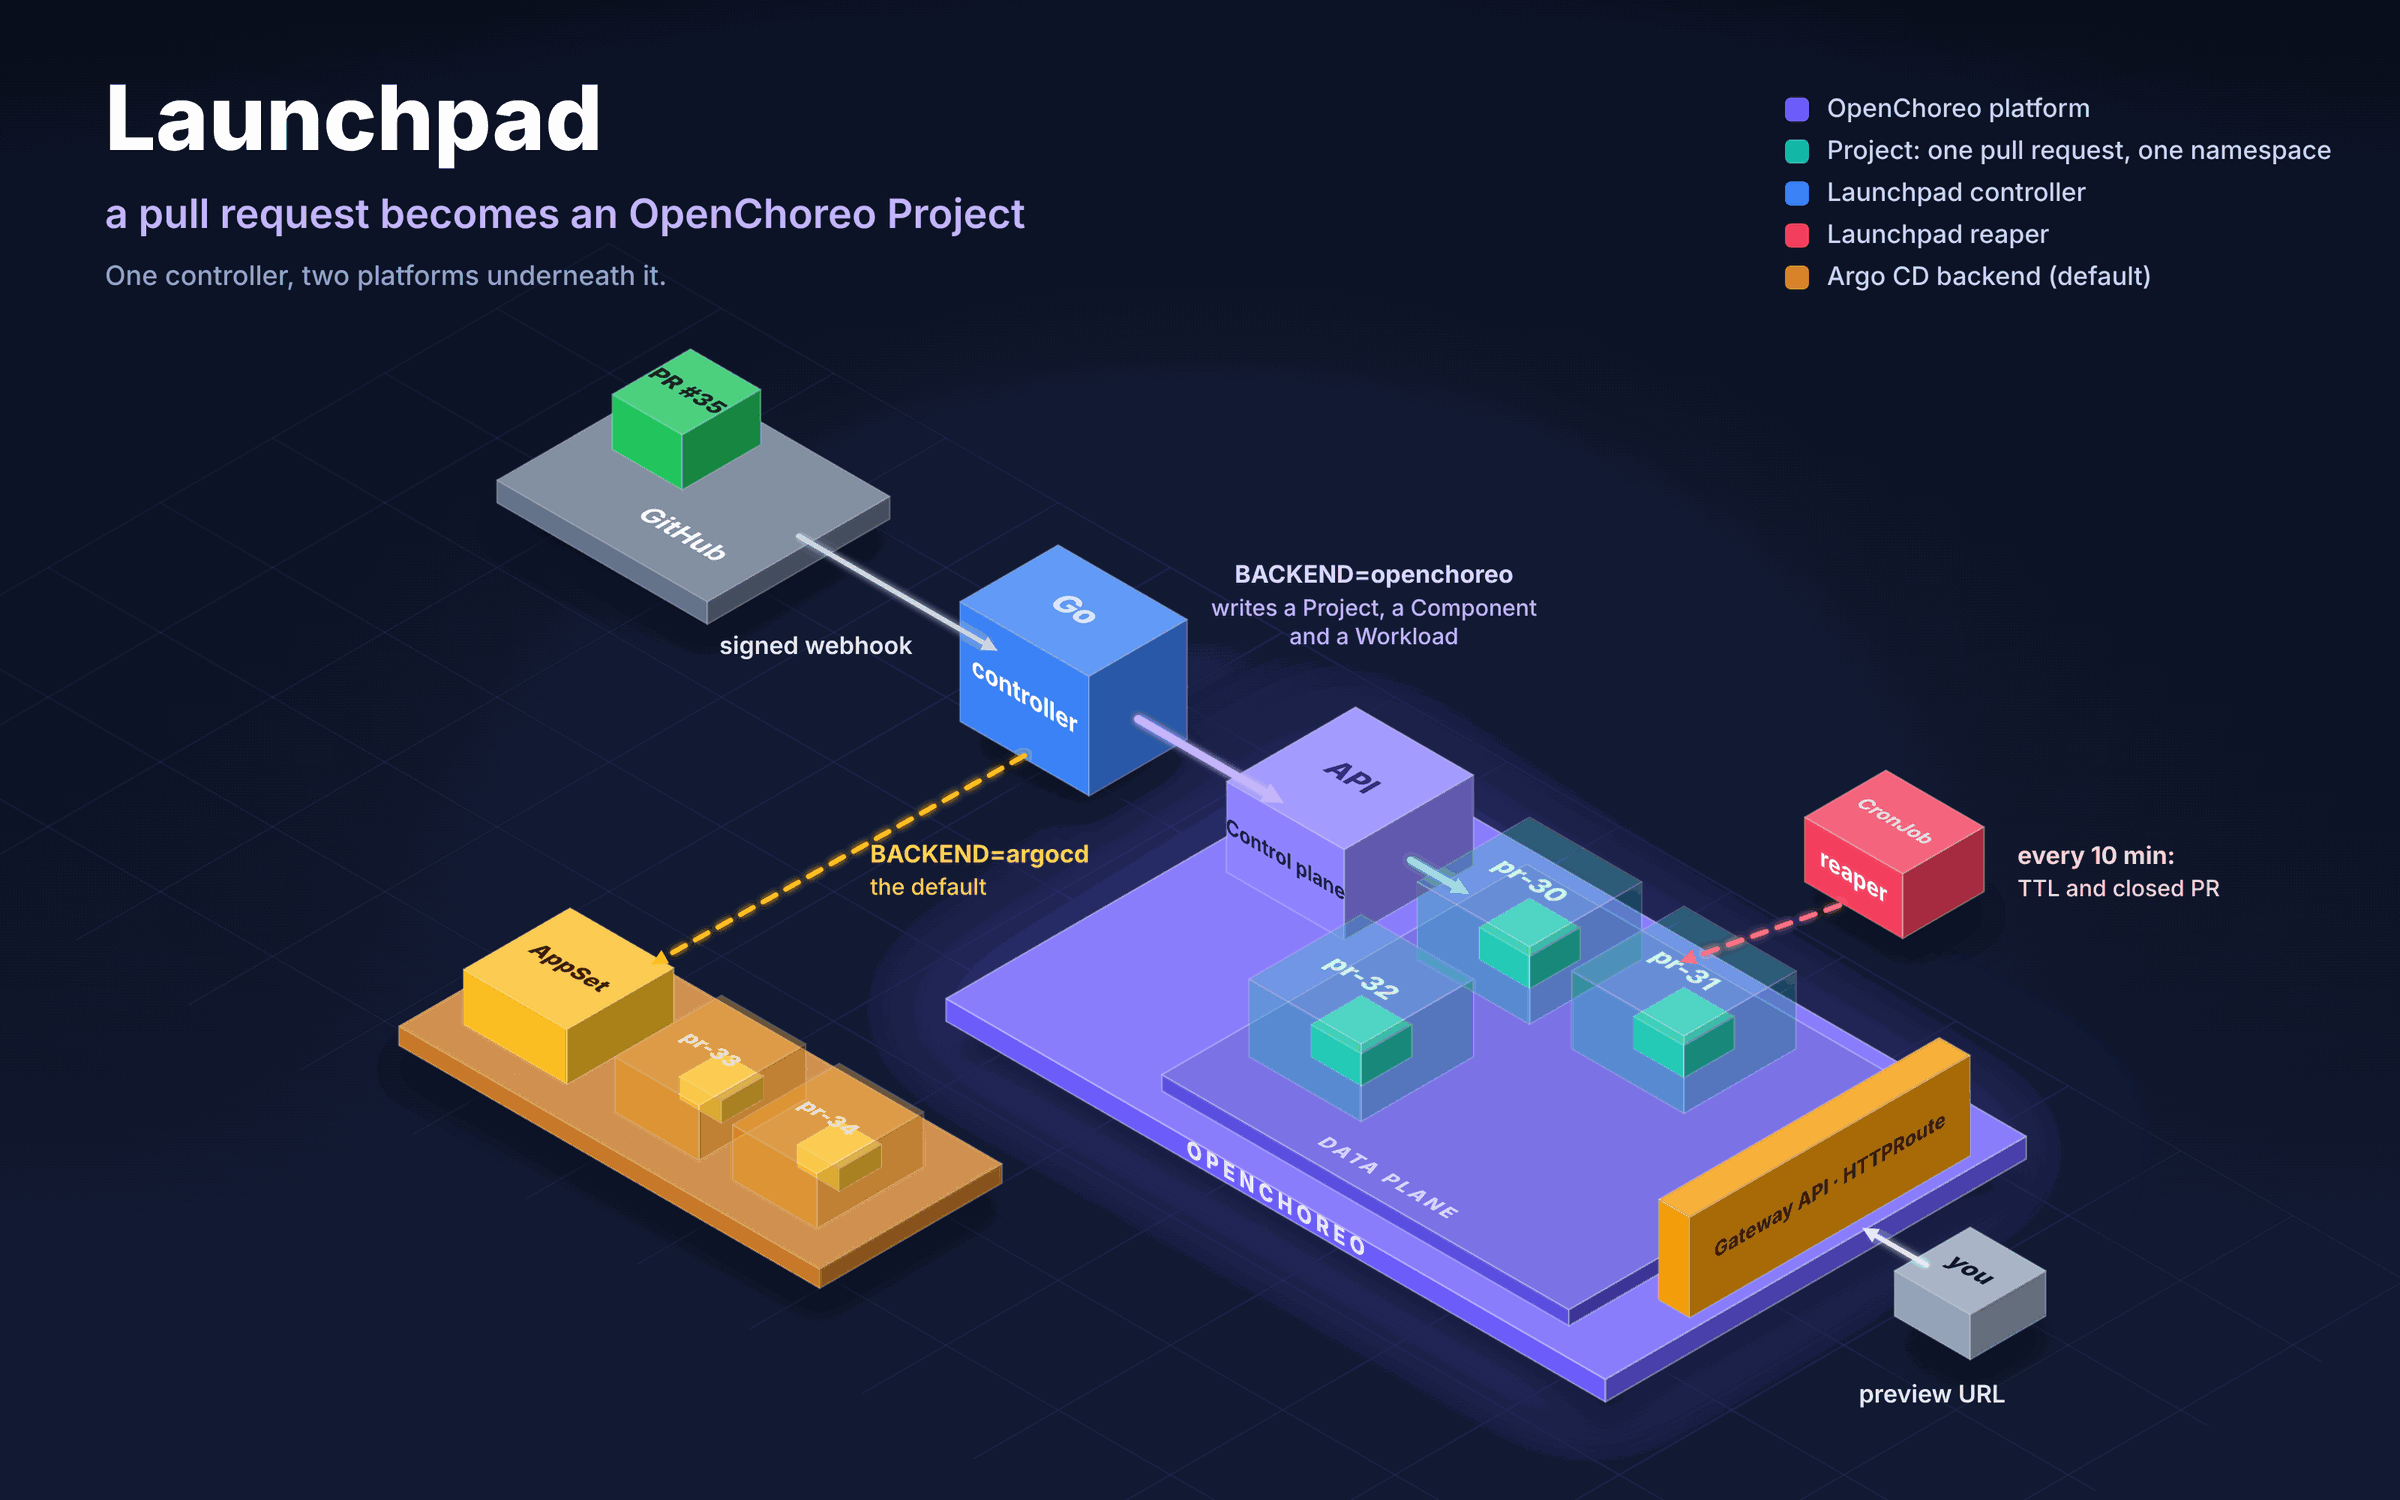
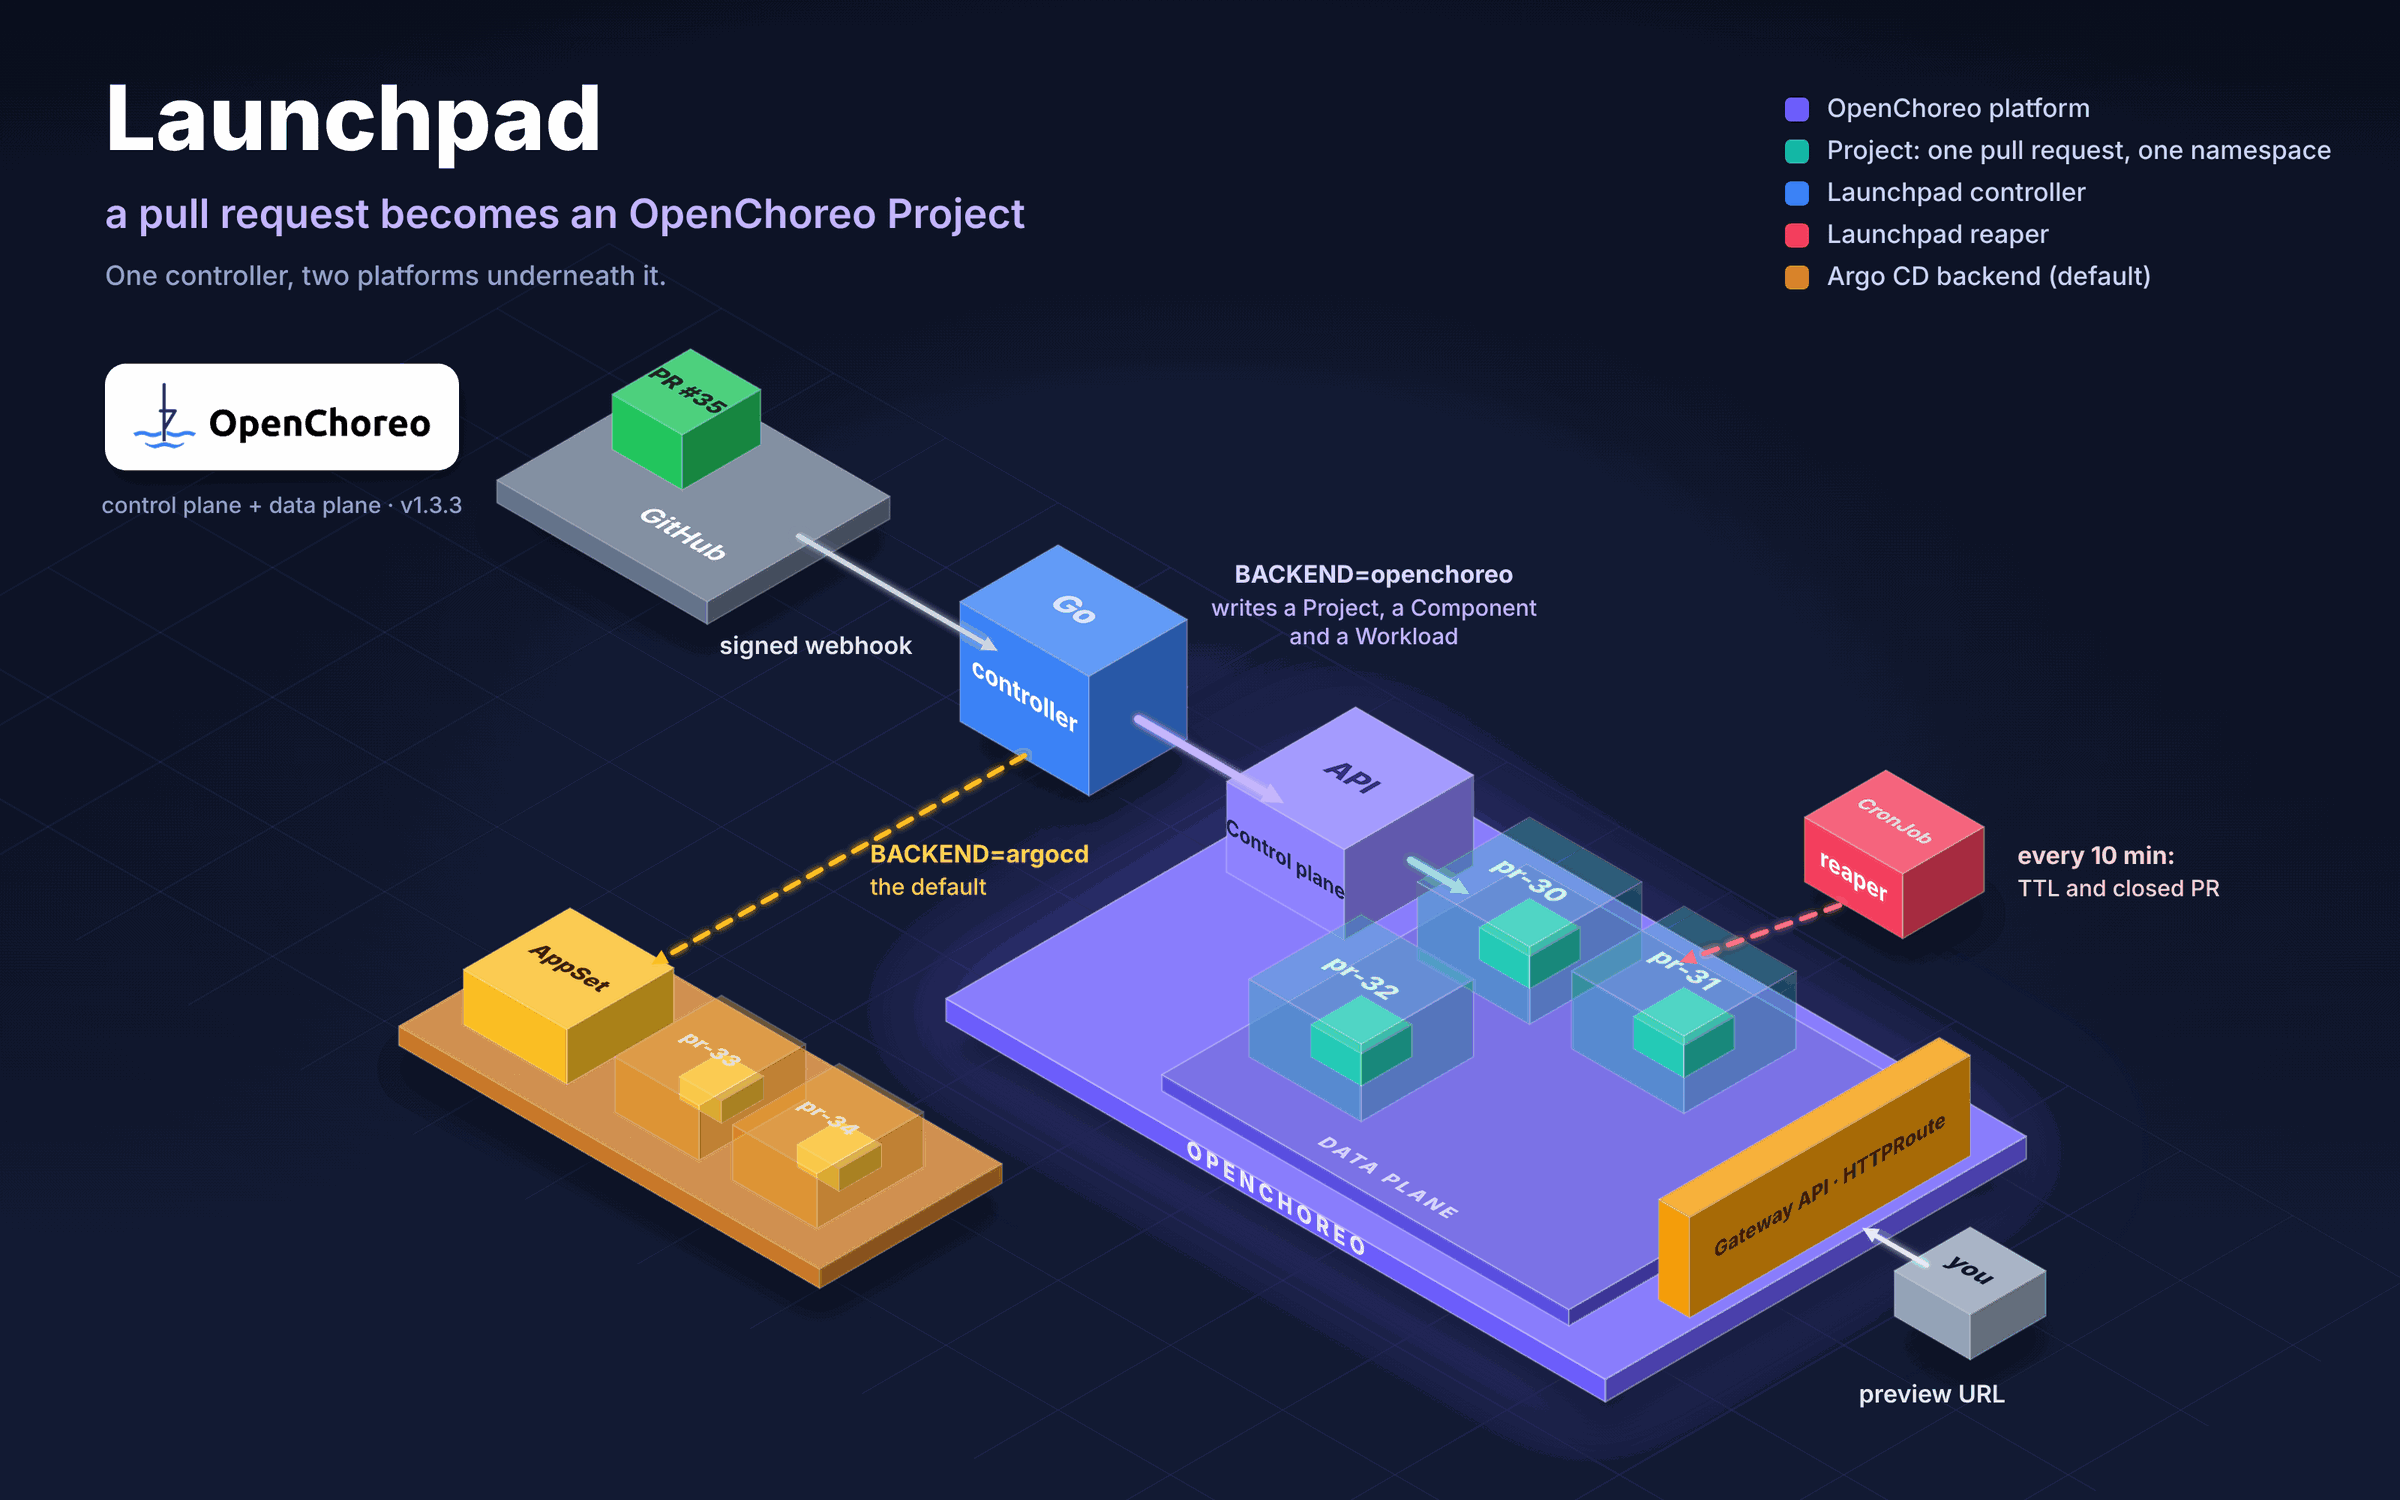
docs: lead with OpenChoreo, install to backend
Install, first deployment and the Project-per-PR backend in order, with isometric diagrams and the project logo.

Changed region(s): [[0.0312, 0.2147, 0.2188, 0.3373]]

diff --git a/README.md b/README.md
@@ -20,7 +20,8 @@ exists because reviewing a diff is guesswork; clicking the thing is not.
 
 ## Contents
 
-- [Launchpad on OpenChoreo](#launchpad-on-openchoreo) — the Project-per-PR backend
+- [Launchpad on OpenChoreo](#launchpad-on-openchoreo) — installing it, deploying on it, and
+  the Project-per-PR backend
 - [On AWS, driven by a real pull request](#on-aws-driven-by-a-real-pull-request)
 - [What I learned from OpenChoreo](#what-i-learned-from-openchoreo)
 - [The Argo CD backend](#the-argo-cd-backend) — the default, and what runs the TLS install
@@ -41,14 +42,63 @@ Launchpad removes that cost, on a platform the team already runs.
 
 ## Launchpad on OpenChoreo
 
+<a href="https://openchoreo.dev"><img src="docs/openchoreo-logo.png" alt="OpenChoreo" height="42"></a>
+
 [OpenChoreo](https://openchoreo.dev) is the open-source internal developer platform from
 Choreo Labs (formerly WSO2), a CNCF Sandbox project. It models software as **Components**
 inside **Projects**, promoted through fixed **Environments** on a registered data plane.
 
-What it does not model, as it ships, is the short-lived environment: one per pull request,
-created on open and destroyed on close. There is an open issue asking for exactly that
-([openchoreo#4345](https://github.com/openchoreo/openchoreo/issues/4345)). This backend is
-one answer to it, built on OpenChoreo's own objects rather than around them.
+I installed it (v1.3.3, control plane and data plane), deployed this project's demo workload
+on it, read how it turns two objects into a running service, and then taught Launchpad's
+controller to use it as a deployment engine. All three steps are below, in that order.
+
+### 1. Installing it
+
+**OpenChoreo v1.3.3 on a local k3d cluster**, control plane and data plane, following the
+official [Run Locally on K3d](https://openchoreo.dev/docs/getting-started/try-it-out/on-k3d-locally/)
+guide step by step. The install is not one chart; it is a platform:
+
+| Layer | What it is there for |
+|---|---|
+| Gateway API v1.5.1 | The CRDs behind every `HTTPRoute` OpenChoreo creates |
+| cert-manager v1.19.4 | Certificates between the control plane and the data plane |
+| External Secrets v2.0.1 + OpenBao | Where platform secrets live; a `ClusterSecretStore` joins them |
+| kgateway v2.3.11 | The gateway data path |
+| ThunderID v1.0.1 | Identity for the console |
+| openchoreo-control-plane 1.3.3 | The API: Projects, Components, Workloads, Environments |
+| openchoreo-data-plane 1.3.3 | Where workloads actually run, registered as a `ClusterDataPlane` |
+
+Docker Desktop on WSL2 with 10 GB of memory; the console then lists the data plane as
+**Connected**. Every command, and the version of every tool, is in
+[`docs/openchoreo.md`](docs/openchoreo.md) — written so someone else can repeat it.
+
+### 2. Deploying on it
+
+The demo image went on with one `kubectl apply` of two objects, a `Component` and a
+`Workload` ([`deploy/openchoreo/launchpad-demo.yaml`](deploy/openchoreo/launchpad-demo.yaml)).
+OpenChoreo turned them into a running service:
+
+![What OpenChoreo builds from two objects](docs/openchoreo-build.png)
+
+```text
+NAME             PROJECT   COMPONENTTYPE        AGE
+launchpad-demo   default   deployment/service   108s
+
+NAMESPACE                                 NAME                                READY   UP-TO-DATE   AVAILABLE
+dp-default-default-development-f8e58905   deployment.apps/launchpad-demo-...  1/1     1            1
+dp-default-default-development-f8e58905   service/launchpad-demo              ClusterIP   8080/TCP
+dp-default-default-development-f8e58905   httproute.../launchpad-demo-http-.. ["development-default.openchoreoapis.localhost"]
+```
+
+`curl` on that route returns `200 OK`. Reading what OpenChoreo had built — in particular
+*which* namespace it chose, and from what — is what decided the design of the backend below.
+
+### 3. Making Launchpad deploy through it
+
+What OpenChoreo does not model, as it ships, is the short-lived environment: one per pull
+request, created on open and destroyed on close. There is an open issue asking for exactly
+that ([openchoreo#4345](https://github.com/openchoreo/openchoreo/issues/4345)). This backend
+is one answer to it, built on OpenChoreo's own objects rather than around them.
 
 With `BACKEND=openchoreo` the controller stops editing an ApplicationSet. For each pull
 request it asks OpenChoreo for a **Project**, which owns its own namespace on the data plane:
@@ -145,6 +195,10 @@ the Project and the namespace underneath it.
 - I did not test promotion between environments, or the build and observability planes (both
   optional, neither installed). I make no claim about them
 
+OpenChoreo is an Apache-2.0 project of Choreo Labs; its name and logo are used here only to
+identify the platform this backend runs on. This repository is not affiliated with or
+endorsed by it.
+
 ---
 
 ## On AWS, driven by a real pull request
@@ -175,20 +229,6 @@ one. Merging took the Project and its namespace with it.
 
 *The preview for a pull request on this repository, reached over the public internet through
 OpenChoreo's gateway on the EC2 node. The commit is the one the pull request is on.*
-
-### Installing OpenChoreo
-
-I installed **OpenChoreo v1.3.3** on a local k3d cluster first — control plane and data
-plane, following the official guide step by step (Gateway API, cert-manager, External
-Secrets, kgateway, OpenBao, ThunderID, then the planes) — and deployed the demo image with
-one `kubectl apply` of a `Component` and a `Workload`
-([`deploy/openchoreo/launchpad-demo.yaml`](deploy/openchoreo/launchpad-demo.yaml)).
-OpenChoreo built a Deployment (1/1 available), a Service on 8080 and a Gateway API
-`HTTPRoute` from those two objects, in a namespace it created for the `development`
-environment.
-
-Every command, and the version of every tool, is in
-[`docs/openchoreo.md`](docs/openchoreo.md).
 
 ---
 
